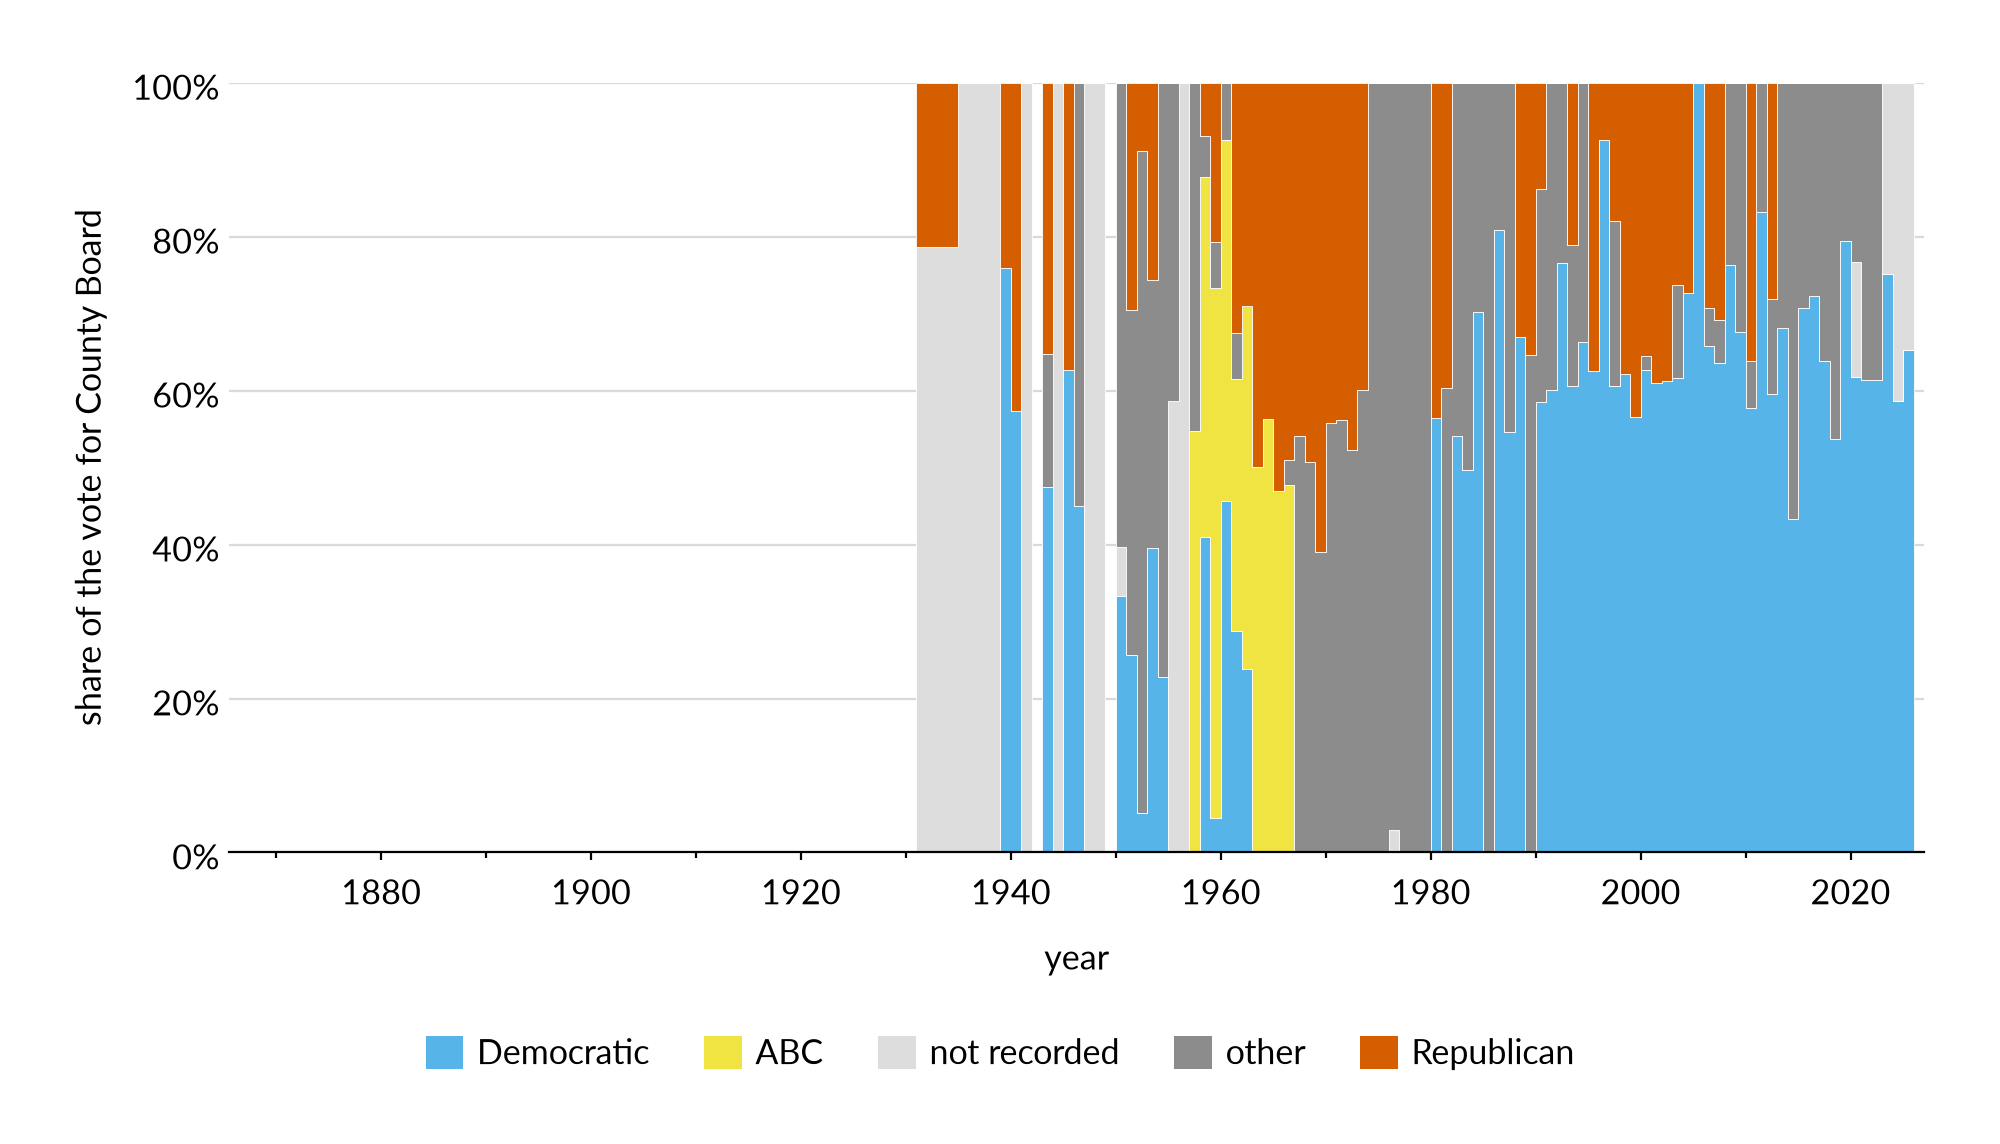
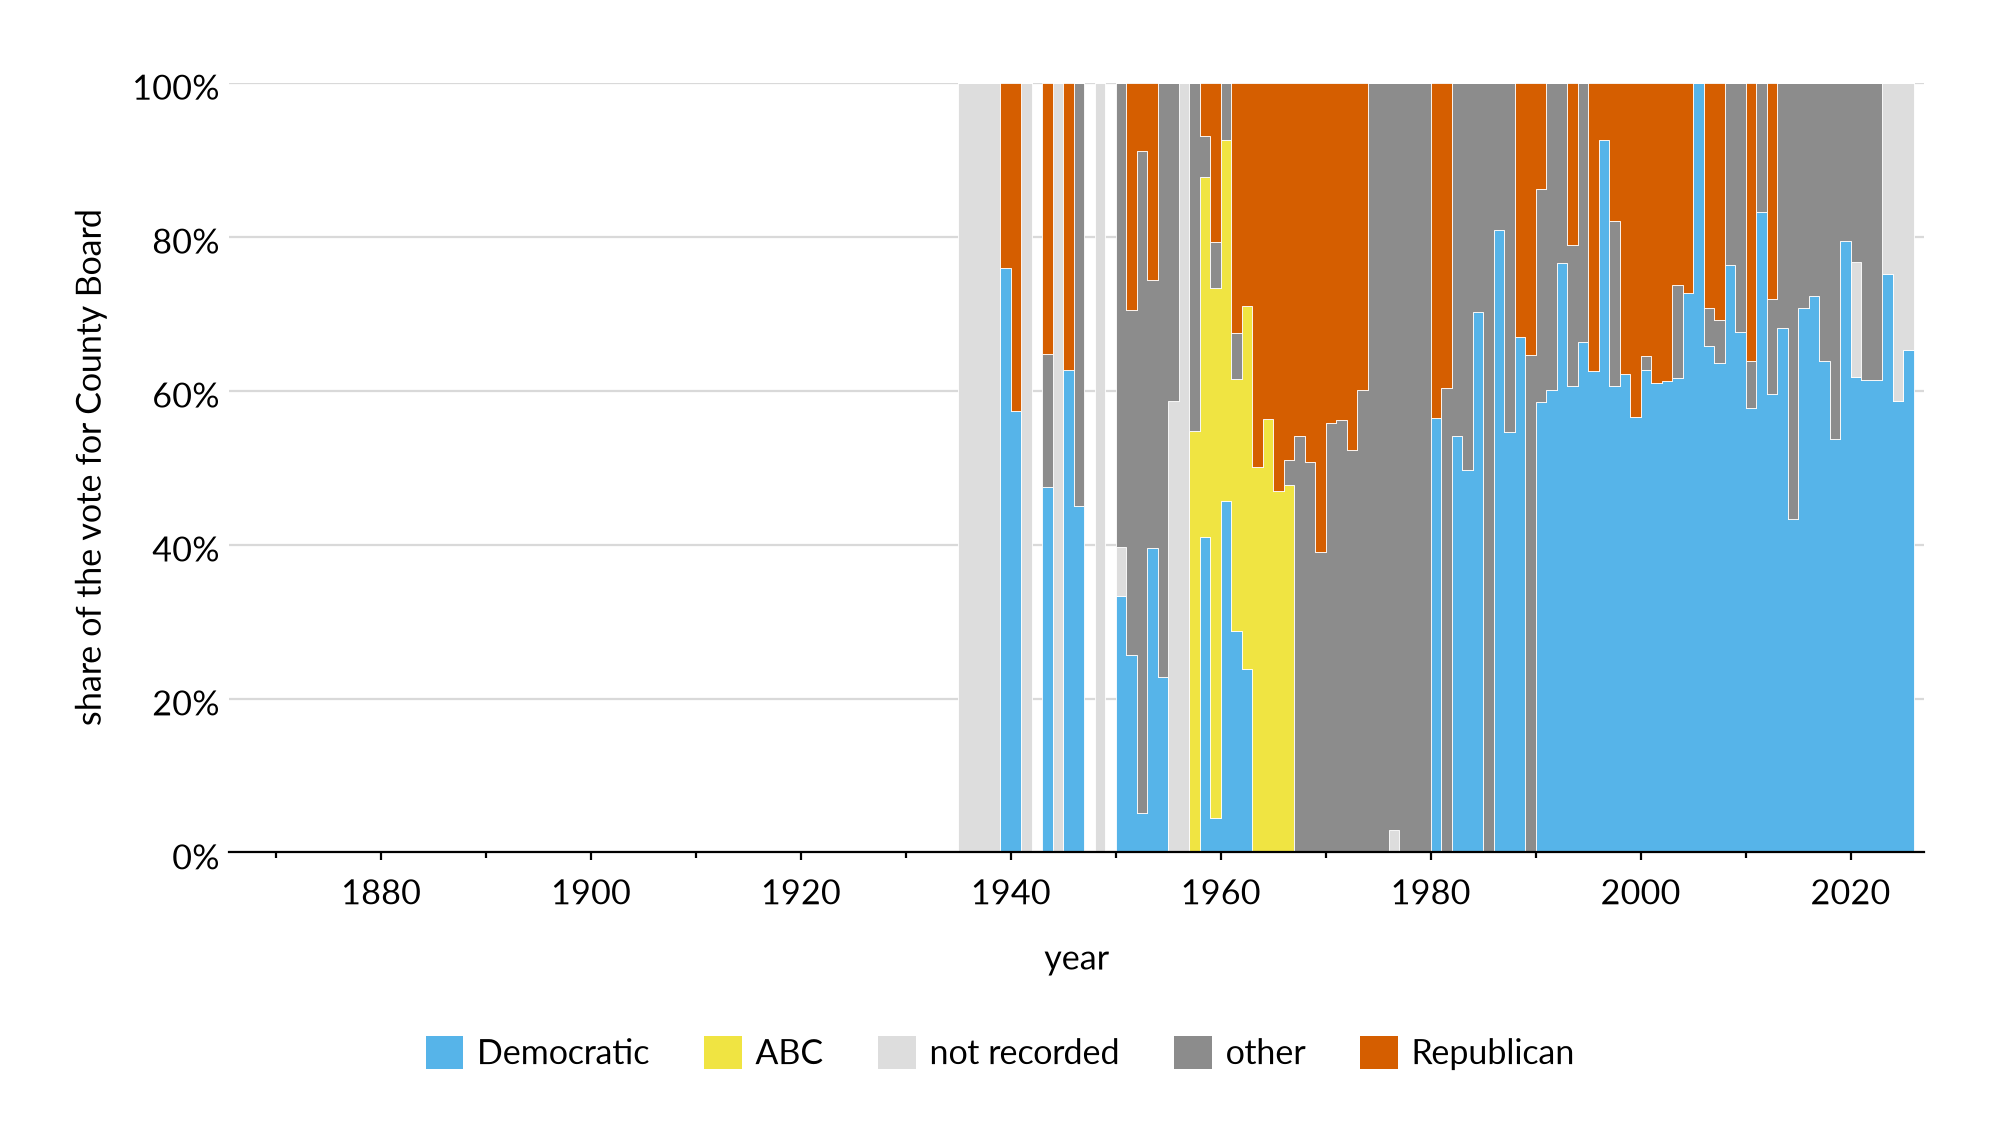
voters, turnout: one rule says whether a year's returns are the county's vote
voters.py and turnout.py each decided which County Board years were
complete, with different code and different answers: a winner with no
count there, any named candidate, a partial canvass or unlisted others
here. 1931 and 1947 were drawn as party shares while being left out of
the turnout levels, and only turnout deduplicated the block the county
prints twice in 1947, so voters.csv carried 27,698 votes that year for
13,849 cast.

elections.contest_rows() now reduces a year's rows to the contest's own
lines and says whether they are the county's whole vote; both files read
it. voters.csv marks 1931 and 1947 incomplete, halves 1947, and cites the
page the counts are on where the composition list precedes them.
voters_board gains gaps at 1931 and 1947; turnout.csv is unchanged.

Changed region(s): [[0.434, 0.0612, 0.496, 0.7649], [0.527, 0.0612, 0.558, 0.7343]]

diff --git a/code/build/voters.py b/code/build/voters.py
@@ -14,8 +14,9 @@ the label the county's own record prints after their name - "(D)", "(ABC)",
 board_members.csv. Votes for Dorothy Grotos in 1975 sit in "other" here and
 her seat sits in Republican there, deliberately: this file is about the
 choice voters were offered, that one about who sat. Candidates the county
-prints no label for are "unrecorded", and a year in which a named candidate
-has no vote count is marked incomplete and not drawn.
+prints no label for are "unrecorded". A year whose returns are not the
+county's whole vote is marked incomplete and not drawn, on the one rule in
+elections.contest_rows(), which turnout.csv shares.
 
 **Why the presidential vote.** Virginia has no party registration, so there is
 no count of residents' partisanship at all; the presidential vote is the
@@ -50,16 +51,14 @@ figure, the two must agree within a few per cent (they are different
 compilations of the same canvass), and the build reports the years they do
 not.
 """
-import difflib
 import re
 
 import pandas as pd
 
-import board_roster
 import citekeys
 import elections
 from elections import COUNTY_HISTORY_THROUGH
-from paths import RAW, TRANSCRIBED, read, write
+from paths import RAW, TRANSCRIBED, write
 
 BY_CLAUDE = TRANSCRIBED / "by_claude"
 OLEARY = BY_CLAUDE / "arlington_county" / "president_1872-1920.csv"
@@ -152,54 +151,26 @@ BAND = {"Democratic": "dem", "Republican": "rep", "ABC": "abc",
 
 def county_board_county() -> pd.DataFrame:
     """1931-2021 from the county's candidate history: every general and
-    special County Board contest in a year, summed; primaries left out."""
+    special County Board contest in a year, summed; primaries left out.
+
+    Write-ins carry no label and are left out of the bands, so shares are of
+    votes for named candidates. Which years are complete, and which rows
+    are the contest's, is elections.contest_rows(), shared with turnout.
+    """
     c = elections.county_history()
-    c = c[~c.primary & c.person]
-    winners = elected_winners()
+    c = c[~c.primary]
     rows = []
     for year, g in c.groupby("year"):
+        named, complete, note = elections.contest_rows(g)
         counts = {"dem": 0, "rep": 0, "abc": 0, "other": 0, "unrecorded": 0}
-        for _, r in g.iterrows():
-            if pd.isna(r.votes):
-                continue
+        for _, r in named[named.person & named.votes.notna()].iterrows():
             label = elections.label_of(r.candidate, where=f"{year}: ")
             counts[BAND[elections.LABELS[label]] if label else "unrecorded"] += int(r.votes)
-        # A winner with no vote count means the year's returns are not the
-        # county's vote: Campbell unopposed in 1942, DeLashmutt "re-elected"
-        # in 1941, nobody counted in 1949. Losers without counts - the 1939
-        # primary field, the 1935 composition list - do not make a year
-        # incomplete. Winners come from the roster: the members whose term
-        # begins the following January by election.
-        # The county spells a few winners differently from Novack - Kelly for
-        # Kelley, Mcgruder for Magruder, Blevens for Blevins - so a surname
-        # counts as present when a close spelling has a vote count.
-        counted = set(g[g.votes.notna()].surname)
-        missing = sorted(w for w in winners.get(int(year), set())
-                         if not difflib.get_close_matches(w, counted, n=1, cutoff=0.8))
         rows.append({"year": int(year), "office": "county board", **counts,
-                     "total": sum(counts.values()), "complete": not missing,
-                     "source": f"{citekeys.ARLINGTON_ELECTIONS} p.{g.page.iloc[0]}",
-                     "note": f"no vote count for {', '.join(missing)}" if missing else ""})
+                     "total": sum(counts.values()), "complete": complete,
+                     "source": f"{citekeys.ARLINGTON_ELECTIONS} p.{named.page.iloc[0]}",
+                     "note": note})
     return pd.DataFrame(rows)
-
-
-def elected_winners() -> dict:
-    """Election year -> surnames of the members it seated in January.
-
-    Read from data/clean/board_members.csv, which the build writes first
-    (run.sh orders it so), the way board_seats.py reads it. An appointee's
-    term begins mid-year and is not an election result.
-    """
-    m = read("board_members")
-    # A term an election seated, beginning the January after it. The roster
-    # says how each term began, so a January term that continues an
-    # appointment (Frisbie, 1948) is an appointment here too, not a win.
-    seated = m[(m.start_year >= 1932) & (m.start_month == 1)
-               & (m.seated_by == board_roster.ELECTION)]
-    out = {}
-    for _, t in seated.iterrows():
-        out.setdefault(int(t.start_year) - 1, set()).add(elections.surname(t["name"]))
-    return out
 
 
 def county_board_state() -> pd.DataFrame:

diff --git a/code/build/turnout.py b/code/build/turnout.py
@@ -35,10 +35,10 @@ returns.)" for the rest; the two are here, with `board_seats` 3.
 
 **Which years are not the county's vote.** The county's own candidate
 history says its tallies are complete only from 1971. A year is marked
-incomplete, and the figure leaves it out, where a named candidate has no
-count (1942, 1949, and Frisbie in 1947, whose page also says its totals
-are from 8 of 11 precincts) or where the page says others ran who are not
-listed (1931). The note column says which.
+incomplete, and the figure leaves it out, on the one rule in
+elections.contest_rows(), which voters.csv shares: a named candidate with
+no count (1942, 1949, and Frisbie in 1947), a partial canvass (1947), or
+others who ran and are not listed (1931). The note column says which.
 
 **Registration is the state's active list**, from 2010, when its monthly
 reports begin; `registered_all` adds the inactive list. Nothing before 2010
@@ -95,8 +95,6 @@ VOTING_AGE_SOURCE = {1980: citekeys.CENSUS_1980_STF1A, 1990: citekeys.CENSUS_199
 # the House of Delegates alone. The Board is the top of the ballot only in
 # the last of these.
 CYCLE = {0: "president", 1: "governor", 2: "midterm", 3: "delegates"}
-# What the county prints when a year's total is not the county's vote.
-PARTIAL = re.compile(r"not mentioned|not final|\d+ of \d+ precincts", re.I)
 
 
 def seats_filled(roster: pd.DataFrame, year: int) -> int:
@@ -122,27 +120,11 @@ def board_county(roster) -> pd.DataFrame:
     c = c[c.november & ~c.primary]
     rows = []
     for year, g in c.groupby("year"):
-        # 1935 and 1939 print the new Board's composition, without counts,
-        # beside the returns. A block (one page, one date) with no count on
-        # any row is that list, not a contest, unless the year has no counts
-        # anywhere - then it is the contest, and the year is incomplete.
-        blocks = g.groupby(["page", "election_date"]).votes.apply(lambda v: v.notna().any())
-        if blocks.any():
-            g = g[[blocks[k] for k in zip(g.page, g.election_date)]]
-        named = g[~g.prose].copy()         # write-ins are votes cast, and stay
-        # 1947 prints the same block twice, on facing pages; a candidate with
-        # the same count twice in one year is one candidate.
-        named["key"] = [elections.surname(n.lstrip("*W. ")) for n in named.candidate]
-        named = named.drop_duplicates(["key", "votes"])
-        missing = sorted(named[named.votes.isna()].key.unique())
-        partial = [t for t in pd.concat([g.candidate, g.office]) if PARTIAL.search(t)]
-        note = "; ".join(filter(None, [
-            f"no vote count for {', '.join(missing)}" if missing else "",
-            partial[0] if partial else ""]))
+        named, complete, note = elections.contest_rows(g)   # write-ins are votes cast, and stay
         rows.append({"year": year, "board_votes": int(named.votes.sum()),
                      "board_seats": seats_filled(roster, year),
-                     "board_complete": not (missing or partial),
-                     "board_source": f"{citekeys.ARLINGTON_ELECTIONS} p.{g.page.iloc[0]}",
+                     "board_complete": complete,
+                     "board_source": f"{citekeys.ARLINGTON_ELECTIONS} p.{named.page.iloc[0]}",
                      "board_note": note})
     return pd.DataFrame(rows)
 

diff --git a/code/build/elections.py b/code/build/elections.py
@@ -11,6 +11,8 @@ one way and the callers select from it.
 
     county_history()   the county's candidate history, County Board rows,
                        1931 to COUNTY_HISTORY_THROUGH
+    contest_rows()     one year's rows reduced to the contest's own lines,
+                       and whether they are the county's whole vote
     state_results()    the state's database, County Board contests, 2000 on
     label_of()         the party label the county prints after a name
     surname()          the surname, as both records are matched on
@@ -114,6 +116,49 @@ def surname(name) -> str:
     s = re.sub(r"\b(Jr|Sr|II|III|IV|Dr|Mrs|Mr)\b\.?", "", s)
     s = re.sub(r"[^A-Za-z ]", " ", s).split()
     return s[-1].lower() if s else ""
+
+
+# What the county prints when a year's total is not the county's vote.
+PARTIAL = re.compile(r"not mentioned|not final|\d+ of \d+ precincts", re.I)
+
+
+def contest_rows(g):
+    """One year's County Board rows, reduced to the contest's own lines.
+
+    `g` is the year's rows with primaries left out and prose and write-ins
+    kept, since the page's remarks are where a shortfall is written. Returns
+    (rows, complete, note): the candidate and write-in rows, deduplicated;
+    whether they are the county's whole vote; and, if not, why.
+
+    voters.py and turnout.py both read this, so a year is complete or not
+    once, for the party shares and the turnout levels alike. They used to
+    decide separately, and 1931 and 1947 were drawn as shares while being
+    left out of the levels.
+
+    1935 and 1939 print the new Board's composition, without counts, beside
+    the returns. A block (one page, one date) with no count on any row is
+    that list, not a contest, unless the year has no counts anywhere - then
+    it is the contest, and the year is incomplete. 1947 prints the same
+    block twice, on facing pages; a candidate with the same count twice in
+    one year is one candidate.
+
+    A year is not the county's vote where a named candidate has no count
+    (1942, 1949, and Frisbie in 1947), where the page says its totals are
+    from some of the precincts (1947), or where it says others ran who are
+    not listed (1931). The note says which.
+    """
+    blocks = g.groupby(["page", "election_date"]).votes.apply(lambda v: v.notna().any())
+    if blocks.any():
+        g = g[[blocks[k] for k in zip(g.page, g.election_date)]]
+    named = g[~g.prose].copy()
+    named["key"] = [surname(n.lstrip("*W. ")) for n in named.candidate]
+    named = named.drop_duplicates(["key", "votes"])
+    missing = sorted(named[named.votes.isna()].key.unique())
+    partial = [t for t in pd.concat([g.candidate, g.office]) if PARTIAL.search(t)]
+    note = "; ".join(filter(None, [
+        f"no vote count for {', '.join(missing)}" if missing else "",
+        partial[0] if partial else ""]))
+    return named, not (missing or partial), note
 
 
 def county_history(office=BOARD) -> pd.DataFrame:

diff --git a/code/analysis/voters_board.py b/code/analysis/voters_board.py
@@ -13,7 +13,7 @@ deliberately: this figure is about the choice on the ballot, that one about
 who sat. Candidates the county prints no label for are "not recorded".
 
 A step area, because it is annual, with each year's value spanning the year.
-Years the build marks incomplete - a winner with no vote count - are gaps.
+Years the build marks incomplete are gaps: the same years turnout leaves out.
 Shares are of votes cast: in a two-seat year each ballot carries two, which
 matters only where a party ran a short slate (docs/voters.md).
 """

diff --git a/docs/voters.md b/docs/voters.md
@@ -78,8 +78,8 @@ ballot, the other who sat. 1931–2021 is the county's candidate history, every
 general and special contest in a year summed; 2022 on is the state database,
 which names a party on the 2022 general and none after, so from 2023 a
 Democratic primary winner is Democratic and everyone else is unrecorded
-(Clement, Fierro and Cambridge are in that band). A year is incomplete where a
-member the roster seats by election has no vote count: 1942 and 1949. Two
+(Clement, Fierro and Cambridge are in that band). A year is incomplete on the
+same rule turnout uses, below: 1931, 1942, 1947 and 1949. Two
 seats are elected in every fourth year from 1951 and a ballot then carries
 two votes, so shares are of votes cast; that distorts a party's share only
 where it ran fewer candidates than seats, which the county's record shows in
@@ -114,7 +114,8 @@ says so. Ballots cast would be the right number and no source in hand holds
 it.
 
 **Which years are not the county's vote.** The county's own page says its
-tallies are complete only from 1971. A year is marked incomplete and not drawn
+tallies are complete only from 1971. One rule, in `code/build/elections.py`,
+decides for `voters.csv` and `turnout.csv` alike. A year is marked incomplete and not drawn
 where a named candidate has no count (1942, 1949, and Frisbie in 1947, whose
 page also says its totals are from 8 of 11 precincts) or where the page says
 others ran who are not listed (1931). Before 1932 the Board was elected by
